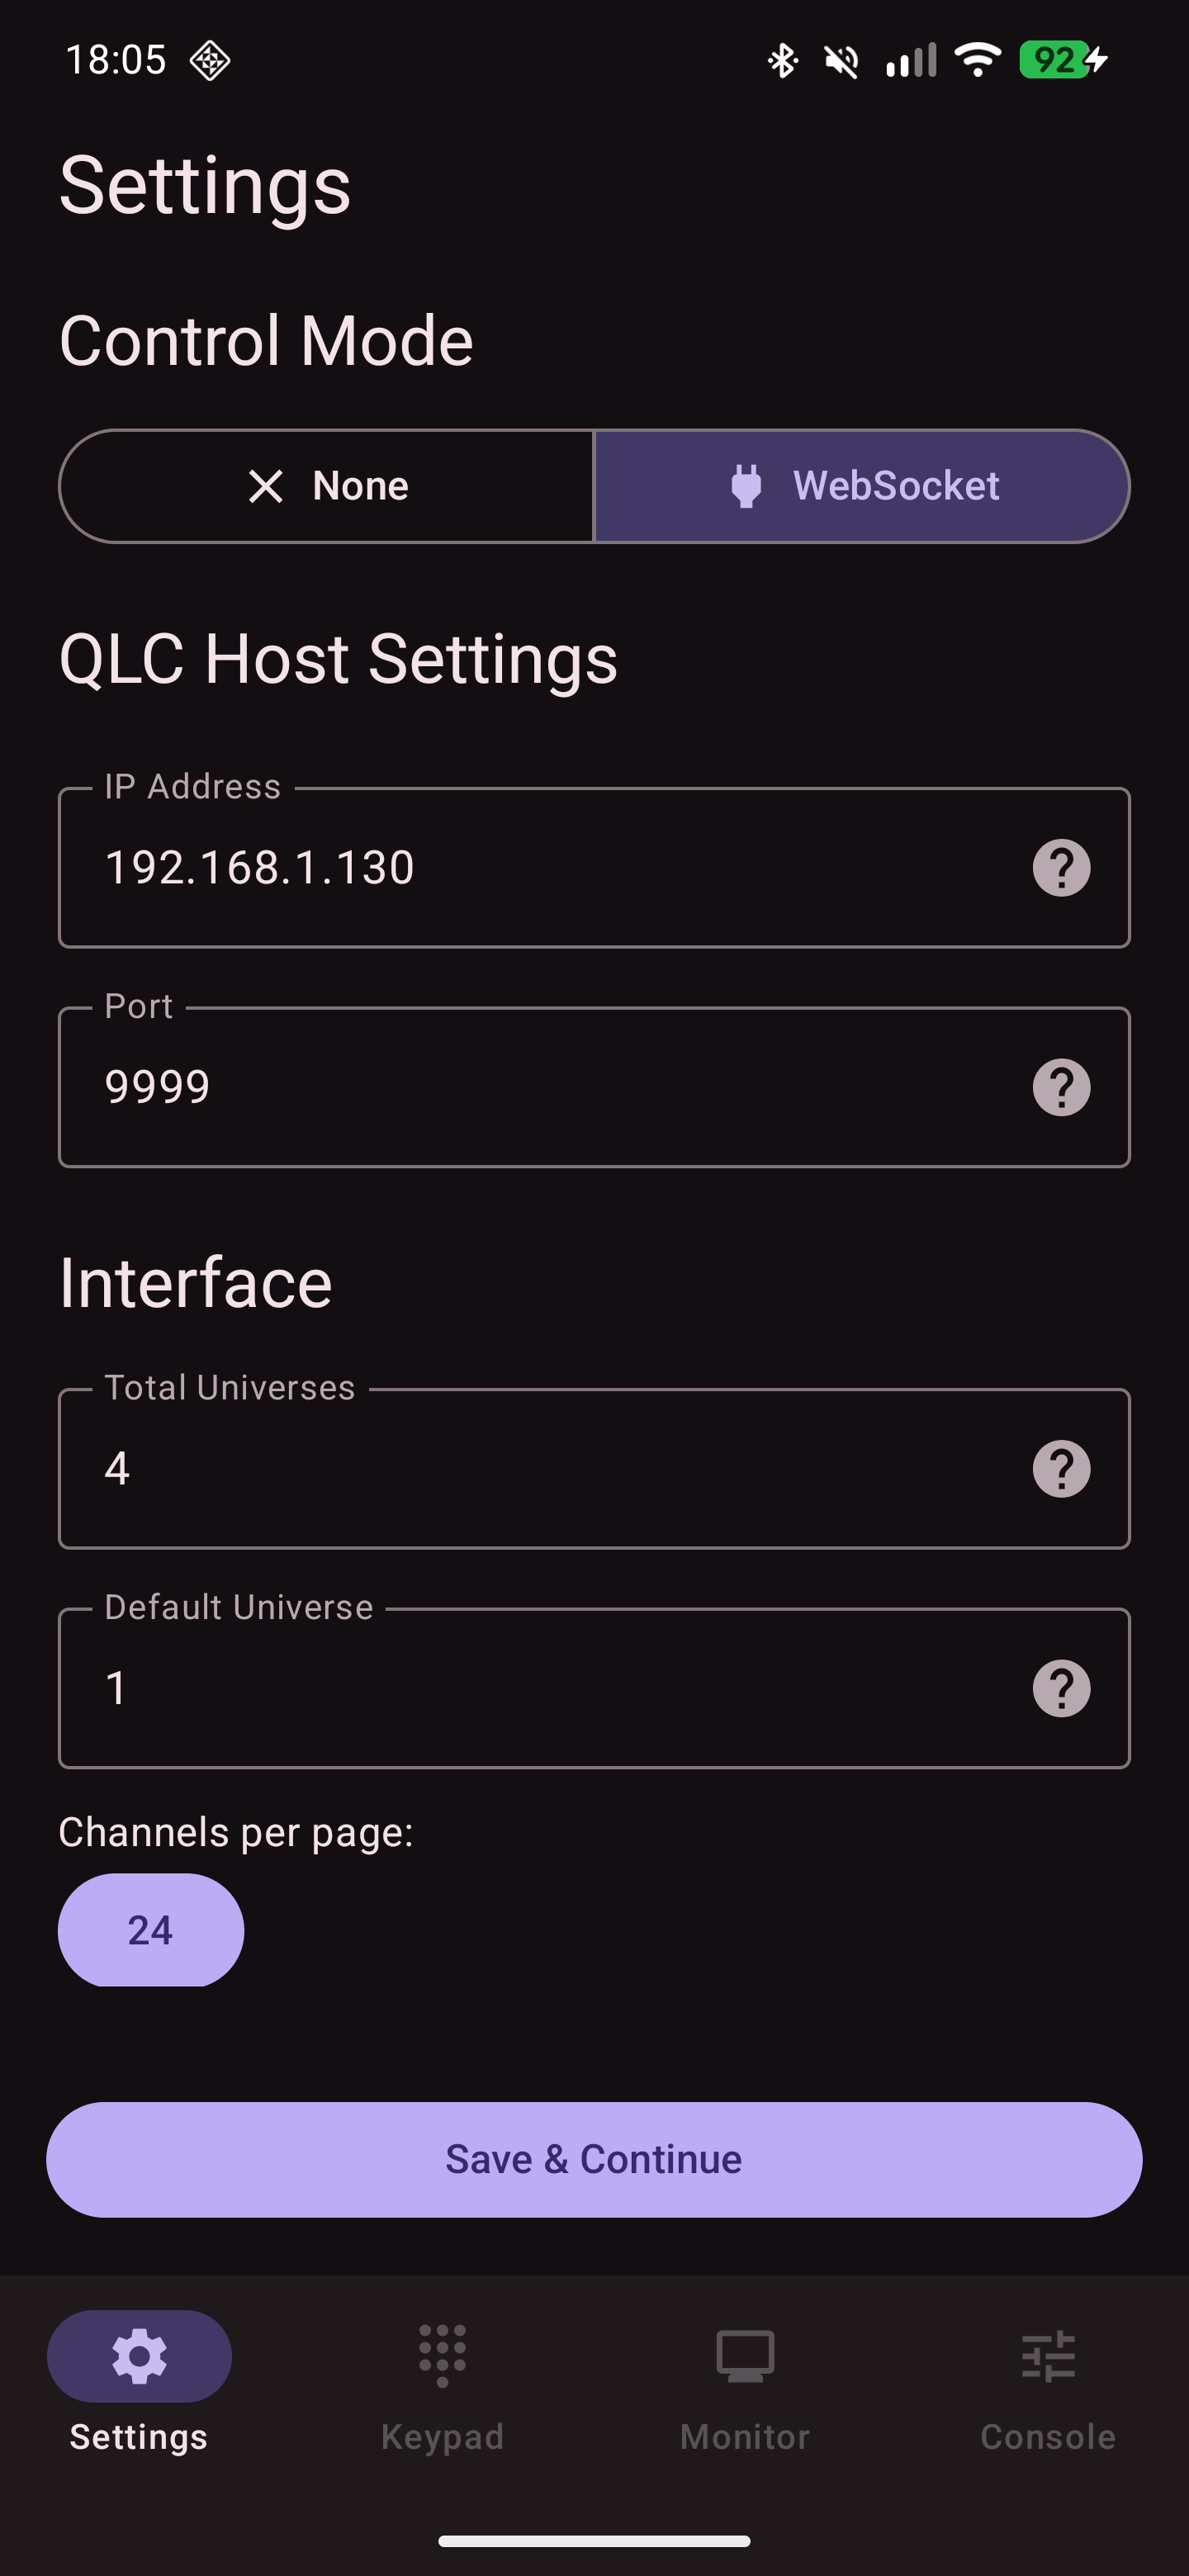
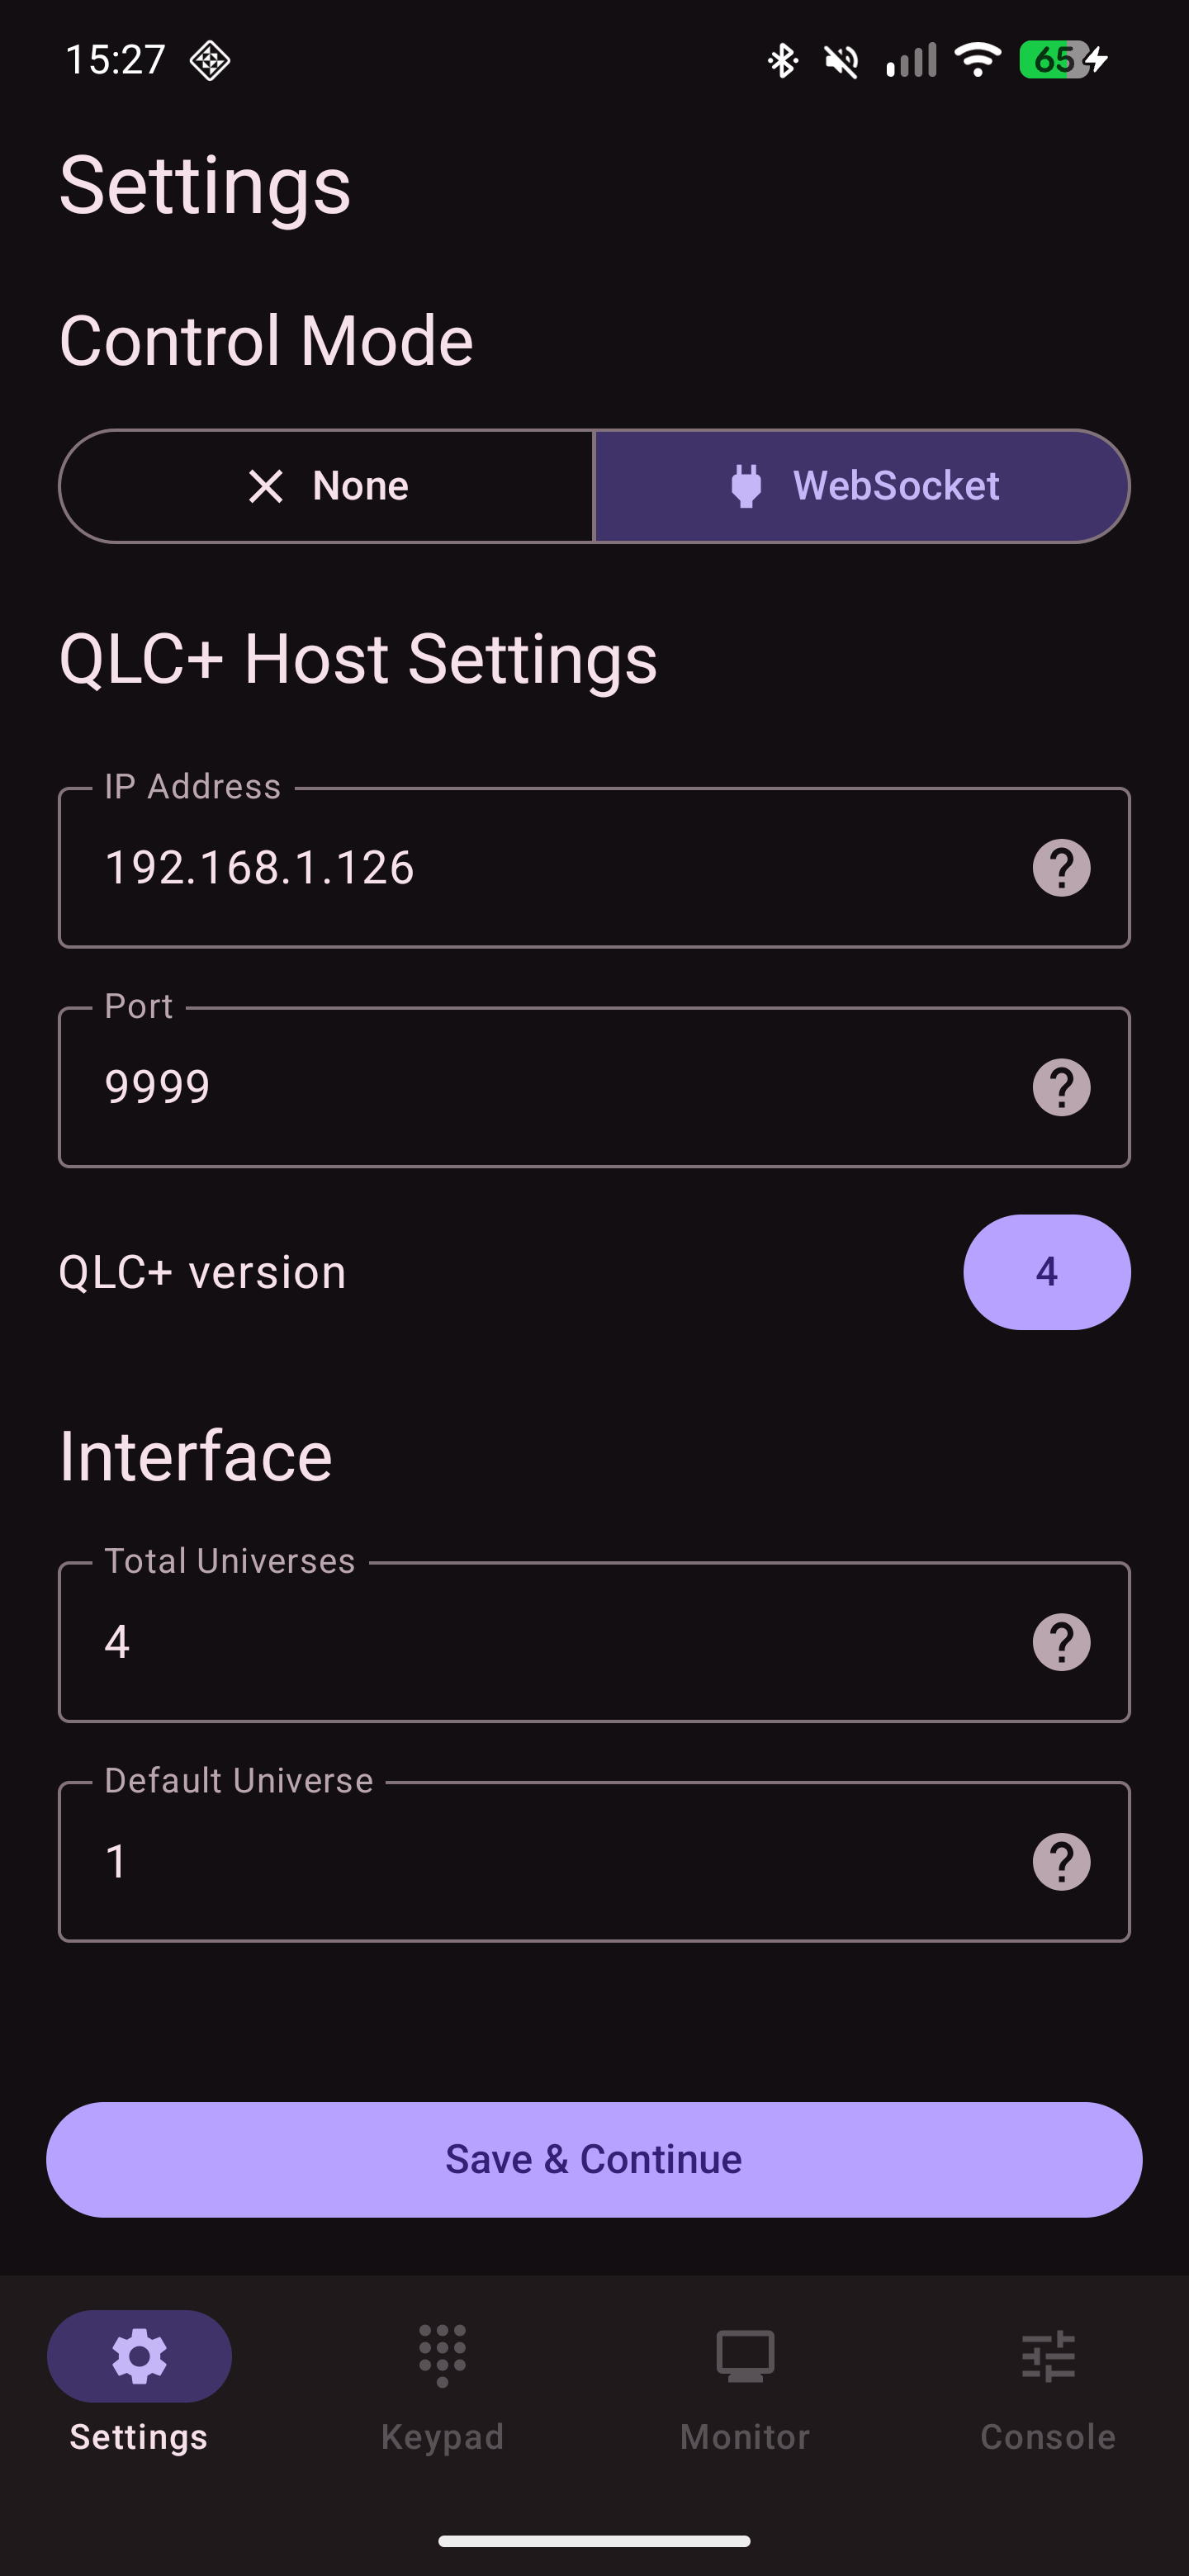
Added additional websocket message deconstruction options. v4 and v5 messages are different. Improved settings page.
New version 1.3 (codename 5)

diff --git a/app/src/main/java/com/evanh/qlc_controller/SettingsScreen.kt b/app/src/main/java/com/evanh/qlc_controller/SettingsScreen.kt
@@ -54,14 +54,16 @@ fun SettingsScreen(
     var pageSizeText by remember { mutableStateOf(vm.pageSize.intValue.toString()) }
 
     var lockOrientation by remember { mutableStateOf(vm.lockOrientation.value) }
+    var qlcVersion by remember { mutableStateOf(vm.qlcVersion.intValue.toString()) }
 
     val ipValid = ipText.isNotBlank()
     val portValid = portText.toIntOrNull() != null
     val uniCountValid = universeCountText.toIntOrNull()?.let { it in 1..99 } == true
     val uniValid = defaultUniverseText.toIntOrNull()?.let { it in 1..99 } == true
     val pageValid = pageSizeText.toIntOrNull()?.let { it in listOf(12, 24, 48, 96) } == true
+    val qlcVersionValid = qlcVersion.toIntOrNull()?.let { it in listOf(4, 5) } == true
 
-    val allValid = ipValid && portValid && uniValid && uniCountValid && pageValid
+    val allValid = ipValid && portValid && uniValid && uniCountValid && pageValid && qlcVersionValid
 
     val (versionName, versionCode) = getAppVersionInfo(LocalContext.current)
 
@@ -83,6 +85,7 @@ fun SettingsScreen(
         vm.updateHaptics(useHaptics)
         vm.updateSettingsPopups(useSettingsPopups)
         vm.updateLockOrientation(lockOrientation)
+        vm.updateQlcVersion(qlcVersion.toInt())
     }
 
     Scaffold(
@@ -185,7 +188,7 @@ fun SettingsScreen(
 
             Spacer(Modifier.height(20.dp))
 
-            Text("QLC Host Settings", style = MaterialTheme.typography.headlineSmall)
+            Text("QLC+ Host Settings", style = MaterialTheme.typography.headlineSmall)
             Spacer(Modifier.height(20.dp))
 
             OutlinedTextField(
@@ -270,6 +273,46 @@ fun SettingsScreen(
                 }
             }
 
+            Spacer(Modifier.height(12.dp))
+
+            Row(
+                verticalAlignment = Alignment.CenterVertically,
+                modifier = Modifier.fillMaxWidth()
+            ) {
+                Text("QLC+ version")
+                Spacer(Modifier.weight(1f))
+                DropdownMenuSwitcher(
+                    current = qlcVersion,
+                    options = listOf("4", "5")
+                ) { selected ->
+                    qlcVersion = selected
+                    saveSettings()
+                }
+            }
+
+            if (qlcVersion.toInt() == 5 && vm.useSettingsPopups.value) {
+                Spacer(Modifier.height(12.dp))
+                Card(
+                    modifier = Modifier.fillMaxWidth(),
+                    shape = RoundedCornerShape(16.dp)
+                ) {
+                    Row(
+                        verticalAlignment = Alignment.Top,
+                        horizontalArrangement = Arrangement.spacedBy(8.dp),
+                        modifier = Modifier.padding(12.dp)
+                    ) {
+                        Icon(
+                            imageVector = Icons.Default.Info,
+                            contentDescription = null
+                        )
+
+                        Text(
+                            "Support for the websockets used in the application may not be working in later QLC+ v5 updates."
+                        )
+                    }
+                }
+            }
+
             Spacer(Modifier.height(24.dp))
 
             Text("Interface", style = MaterialTheme.typography.headlineSmall)
@@ -337,14 +380,19 @@ fun SettingsScreen(
 
             Spacer(Modifier.height(12.dp))
 
-            Text("Channels per page:")
-            Spacer(Modifier.height(8.dp))
-            DropdownMenuSwitcher(
-                current = pageSizeText,
-                options = listOf("12", "24", "48", "96")
-            ) { selected ->
-                pageSizeText = selected
-                saveSettings()
+            Row(
+                verticalAlignment = Alignment.CenterVertically,
+                modifier = Modifier.fillMaxWidth()
+            ) {
+                Text("Channels per page")
+                Spacer(Modifier.weight(1f))
+                DropdownMenuSwitcher(
+                    current = pageSizeText,
+                    options = listOf("12", "24", "48", "96")
+                ) { selected ->
+                    pageSizeText = selected
+                    saveSettings()
+                }
             }
 
             if (pageSizeText.toInt() > 24 && vm.useSettingsPopups.value) {

diff --git a/app/src/main/java/com/evanh/qlc_controller/DMXMonitorScreen.kt b/app/src/main/java/com/evanh/qlc_controller/DMXMonitorScreen.kt
@@ -106,7 +106,19 @@ fun DmxMonitorScreen(vm: ControlViewModel) {
                     newMetaArr[ch - 1] = meta
                 }
 
-                i += 3
+                i += when (vm.qlcVersion.intValue) {
+                    4 -> {
+                        3
+                    }
+
+                    5 -> {
+                        4
+                    }
+
+                    else -> {
+                        3
+                    }
+                }
             }
 
             channelValues = newArr

diff --git a/app/src/main/java/com/evanh/qlc_controller/VirtualConsoleScreen.kt b/app/src/main/java/com/evanh/qlc_controller/VirtualConsoleScreen.kt
@@ -70,7 +70,19 @@ fun VirtualConsoleScreen(vm: ControlViewModel) {
                     newMetaArr[ch - 1] = meta
                 }
 
-                i += 3
+                i += when (vm.qlcVersion.intValue) {
+                    4 -> {
+                        3
+                    }
+
+                    5 -> {
+                        4
+                    }
+
+                    else -> {
+                        3
+                    }
+                }
             }
 
             channelValues = newArr

diff --git a/app/src/main/java/com/evanh/qlc_controller/ControlViewModel.kt b/app/src/main/java/com/evanh/qlc_controller/ControlViewModel.kt
@@ -32,6 +32,8 @@ class ControlViewModel(
 
     var lockOrientation = mutableStateOf(false)
 
+    var qlcVersion = mutableIntStateOf(4)
+
     init {
         viewModelScope.launch {
             settingsRepository.settingsFlow.collect { prefs ->
@@ -49,6 +51,8 @@ class ControlViewModel(
                 useSettingsPopups.value = (prefs[SettingsKeys.SETTINGS_POPUPS] ?: useSettingsPopups.value)
 
                 lockOrientation.value = (prefs[SettingsKeys.LOCK_ORIENTATION] ?: lockOrientation.value)
+
+                qlcVersion.intValue = (prefs[SettingsKeys.QLC_VERSION] ?: qlcVersion.intValue)
             }
         }
     }
@@ -106,6 +110,11 @@ class ControlViewModel(
     fun updateLockOrientation(v: Boolean) = viewModelScope.launch {
         lockOrientation.value = v
         settingsRepository.saveLockOrientation(v)
+    }
+
+    fun updateQlcVersion(v: Int) = viewModelScope.launch {
+        qlcVersion.intValue = v
+        settingsRepository.saveQlcVersion(v)
     }
 
 

diff --git a/app/src/main/java/com/evanh/qlc_controller/SettingsRepository.kt b/app/src/main/java/com/evanh/qlc_controller/SettingsRepository.kt
@@ -48,4 +48,8 @@ class SettingsRepository(private val context: Context) {
     suspend fun saveLockOrientation(value: Boolean) {
         context.settingsDataStore.edit { it[SettingsKeys.LOCK_ORIENTATION] = value }
     }
+
+    suspend fun saveQlcVersion(value: Int) {
+        context.settingsDataStore.edit { it[SettingsKeys.QLC_VERSION] = value }
+    }
 }

diff --git a/app/src/main/java/com/evanh/qlc_controller/SettingsKeys.kt b/app/src/main/java/com/evanh/qlc_controller/SettingsKeys.kt
@@ -14,4 +14,5 @@ object SettingsKeys {
     val HAPTICS = booleanPreferencesKey("haptics")
     val SETTINGS_POPUPS = booleanPreferencesKey("settings_popups")
     val LOCK_ORIENTATION = booleanPreferencesKey("lock_orientation")
+    val QLC_VERSION = intPreferencesKey("qlc_version")
 }

diff --git a/README.md b/README.md
@@ -7,6 +7,9 @@ The app is built to be very versatile in preferences because it supports many ex
 
 Theming is synced with the phone itself, drawing accent colors from whatever "Material You" settings you have enabled globaly.
 
+At the moment, both v4 and v5 are supported (web interface must be enabled) but I have been told that v5 is very much in development and is likely to change.
+For this reason, only v4 is recommended to use with this app.
+
 # Features
 Currently, the following features are quite/fully implemented:
 - DMX keypad
@@ -22,7 +25,7 @@ Currently, the following features are quite/fully implemented:
     <td><img src="docs/screenshots/Screenshot_20260617_180303.png" width="200" alt="Screenshot of monitor page"></td>
     <td><img src="docs/screenshots/Screenshot_20260617_180412.png" width="200" alt="Screenshot of fader page"></td>
     <td><img src="docs/screenshots/Screenshot_20260617_180443.png" width="200" alt="Screenshot of DMX keypad page"></td>
-    <td><img src="docs/screenshots/Screenshot_20260617_180504.png" width="200" alt="Screenshot of settings page"></td>
+    <td><img src="docs/screenshots/Screenshot_20260624_152732.png" width="200" alt="Screenshot of settings page"></td>
   </tr>
 </table>
 
@@ -30,6 +33,36 @@ Currently, the following features are quite/fully implemented:
 You can install this application directly by downloading the built APKs from the releases page.
 
 I am currently working on getting this listed on F-Droid and Google Play.
+
+# How to connect with a host
+The QLC+ host is the device that is running QLC+
+
+For this app to work, the following conditions must be met:
+
+### 1 - QLC+ webserver
+The startup flag for the web interface must be enabled.
+
+For v4:
+```
+qlcplus -w
+```
+
+On v5 there is a toggle in "Network → Server setup".
+
+### 2 - Firewall port open
+Ensure the firewall is allowing inbound traffic on port `9999`.
+
+Linux/Arch (and other distros):
+
+```
+sudo iptables -A INPUT -p tcp --dport 9999 -j ACCEPT
+```
+
+> Warning: This will expose port `9999` to any device on your network
+
+Windows:
+
+Open Windows Defender Firewall settings and create a new rule.
 
 # Credits
 Thanks so much to the amazing QLC+ team for their continued work on the desktop version of QLC+ (of which this is a controller for).